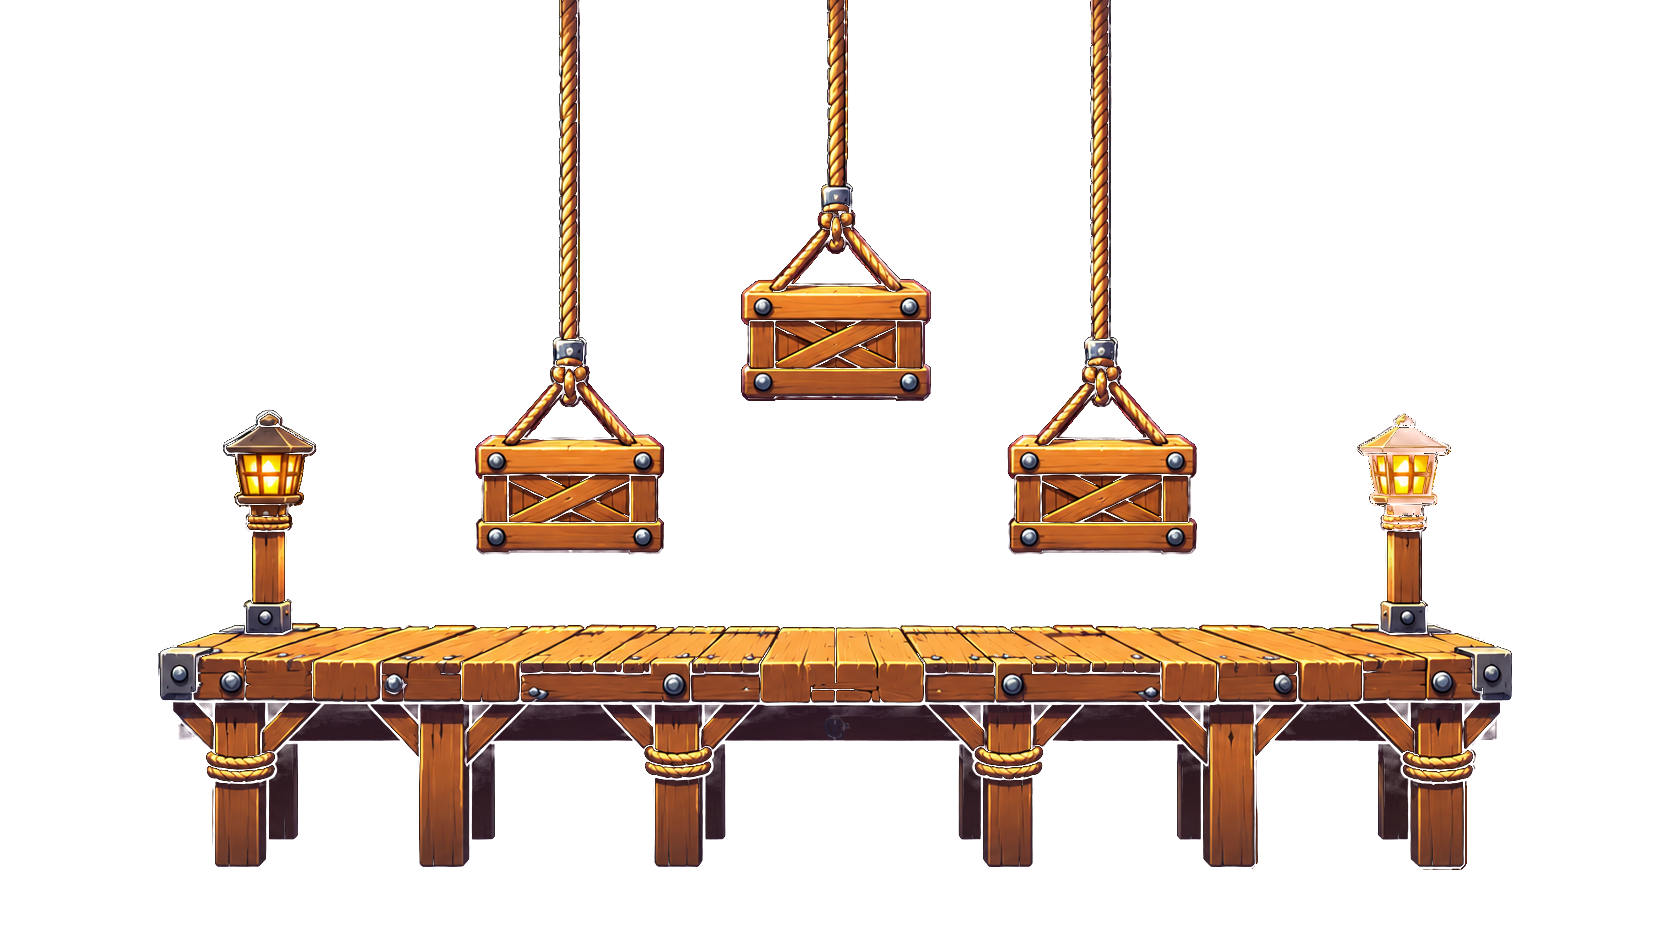
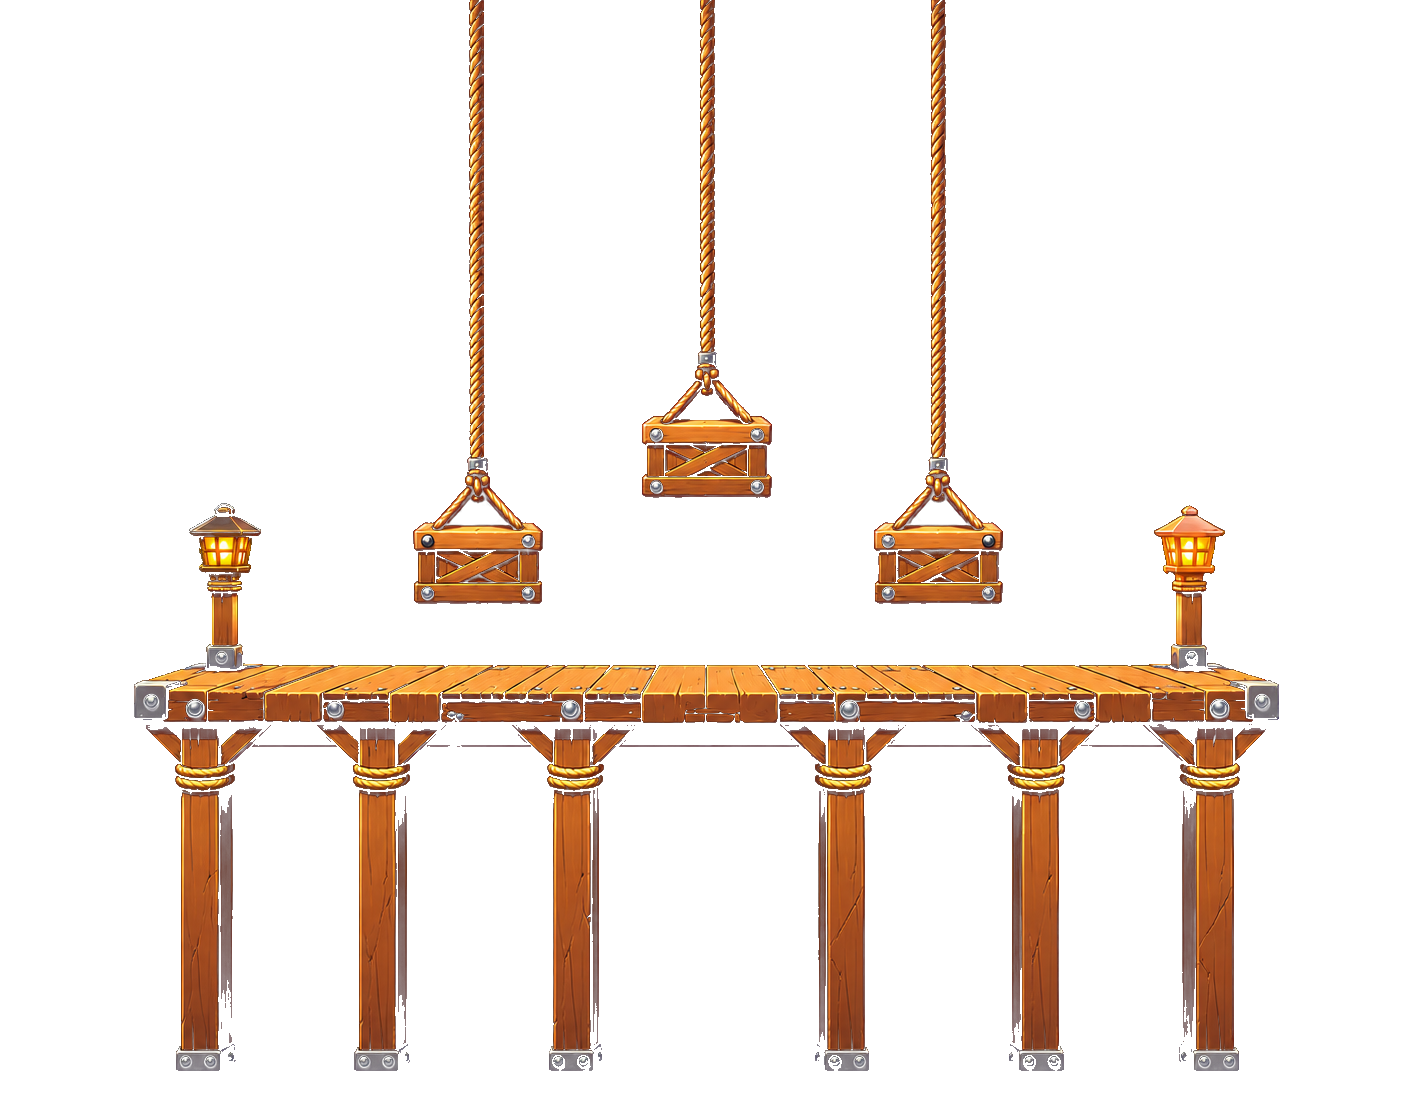
feat(brawler): stage front layers, new docks/grove fg anchors
top.png per stage drawn over fighters, 4px blur, static.
docks/grove fg art swapped, anchors re-measured.

Changed region(s): [[0.0934, 0.0, 0.9024, 0.9862], [0.4356, 0.0, 0.5601, 0.4623]]

diff --git a/games/brawler/client/src/lib/render/artstage.ts b/games/brawler/client/src/lib/render/artstage.ts
@@ -1,13 +1,13 @@
 // Painted stage art: screen-space backdrop + world-space platform image. Source art: assets/stages/<id> -> public/stages/<id>
 // (black bg keyed by sprites/stages/key.py; walkable surfaces measured with sprites/stages/surf.py and written into stages.ts).
 // Falls back to the procedural painter (stage.ts) until images load, and for grove's backdrop (no clean one yet).
-import type { StageId } from '../stages.ts';
+import { STAGES, type StageId } from '../stages.ts';
 
 // s = world units per image px; `at` pins image point (px, py) to world point (wx, wy). Must agree with stages.ts geometry.
 const ART: Record<StageId, { s: number; at: [px: number, py: number, wx: number, wy: number]; bg: boolean }> = {
   ember: { s: 0.85, at: [837, 452, 800, 600], bg: true },
-  docks: { s: 0.75, at: [837.5, 630, 800, 640], bg: true },
-  grove: { s: 1.1, at: [838.5, 515, 800, 620], bg: false },
+  docks: { s: 0.88, at: [706, 666, 800, 640], bg: true },
+  grove: { s: 1.09, at: [734, 559, 800, 620], bg: false },
 };
 
 const imgs = new Map<string, HTMLImageElement | null>();
@@ -32,4 +32,21 @@ export function paintArtStage(c: CanvasRenderingContext2D, id: StageId) {
   const { s, at: [px, py, wx, wy] } = ART[id];
   c.drawImage(i, wx - px * s, wy - py * s, i.width * s, i.height * s);
   return true;
+}
+
+// Front layer (clouds / sea+crane / canopy): static, blurred once at load, drawn over fighters, stretched 1:1 over the blast box.
+const TOP_BLUR = 4; // px
+const blurred = new Map<string, HTMLCanvasElement>();
+
+export function paintArtFront(c: CanvasRenderingContext2D, id: StageId) {
+  const i = img(`/stages/${id}/top.png`);
+  if (!i) return;
+  let o = blurred.get(id);
+  if (!o) {
+    o = document.createElement('canvas'); o.width = i.width; o.height = i.height;
+    const x = o.getContext('2d')!; x.filter = `blur(${TOP_BLUR}px)`; x.drawImage(i, 0, 0);
+    blurred.set(id, o);
+  }
+  const b = STAGES[id].blast;
+  c.drawImage(o, b.x0, b.y0, b.x1 - b.x0, b.y1 - b.y0);
 }

diff --git a/games/brawler/client/src/lib/render/draw.ts b/games/brawler/client/src/lib/render/draw.ts
@@ -4,7 +4,7 @@ import { paintBackground, paintStage, paintFront } from './stage.ts';
 import { drawMonster, poseFor, type Look } from './rig.ts';
 import { drawHero, hero, heroOf } from './cutout.ts';
 import { drawSheet, sheet } from './sheet.ts';
-import { paintArtBackground, paintArtStage } from './artstage.ts';
+import { paintArtBackground, paintArtStage, paintArtFront } from './artstage.ts';
 import { lookOf, randomDna, type Dna } from '../genes.ts';
 
 export const W = 1280, H = 720;
@@ -194,7 +194,7 @@ export function createRenderer(canvas: HTMLCanvasElement) {
     const art = paintArtStage(ctx, stageId); // ?art trial: painted platforms replace procedural stage + front layer
     if (!art) paintStage(ctx, stageId, t);
     fighters(s); particles();
-    if (!art) paintFront(ctx, stageId, t);
+    if (art) paintArtFront(ctx, stageId); else paintFront(ctx, stageId, t);
     ctx.restore();
     hud(s, banner, info);
   }
